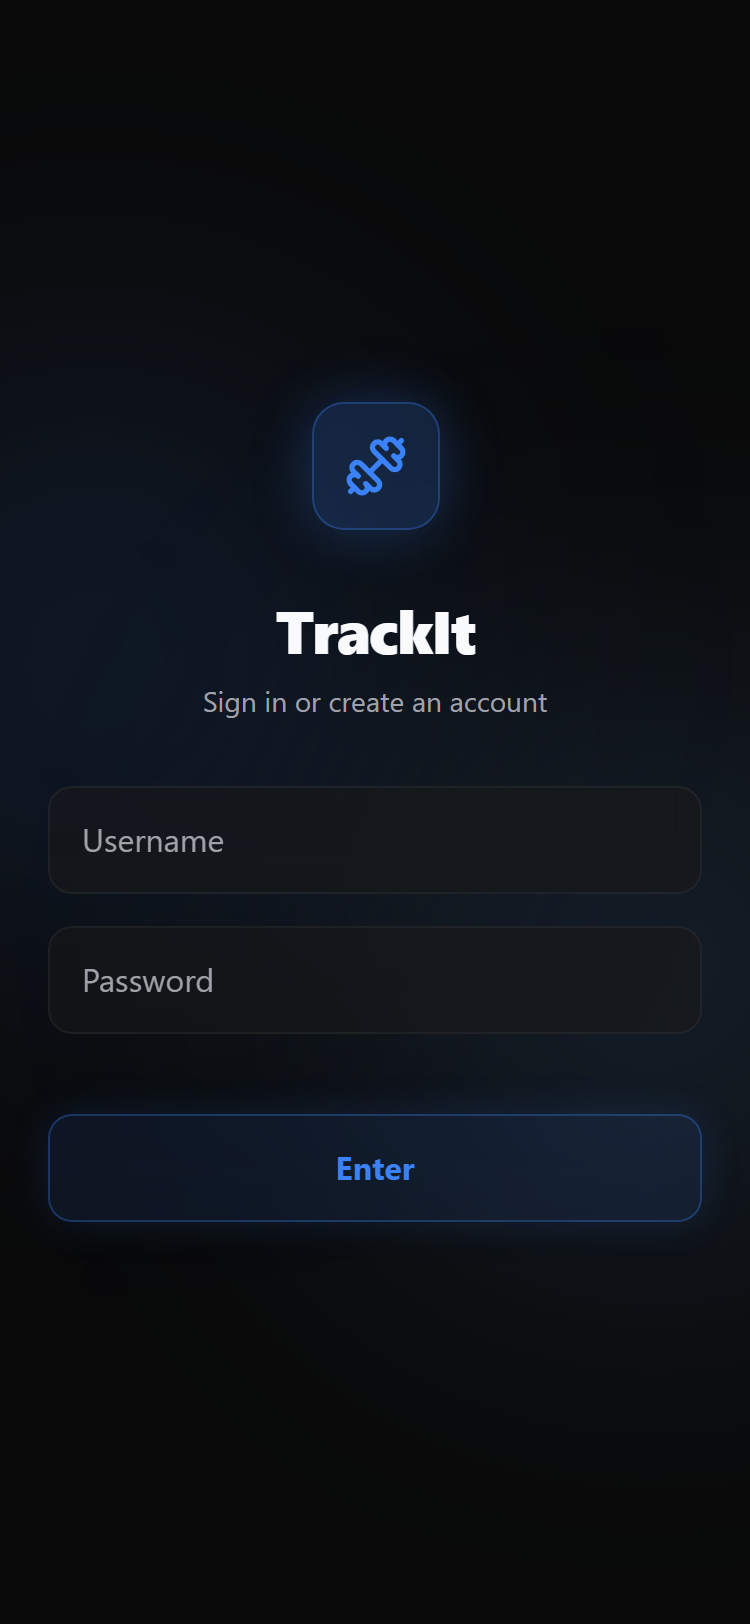
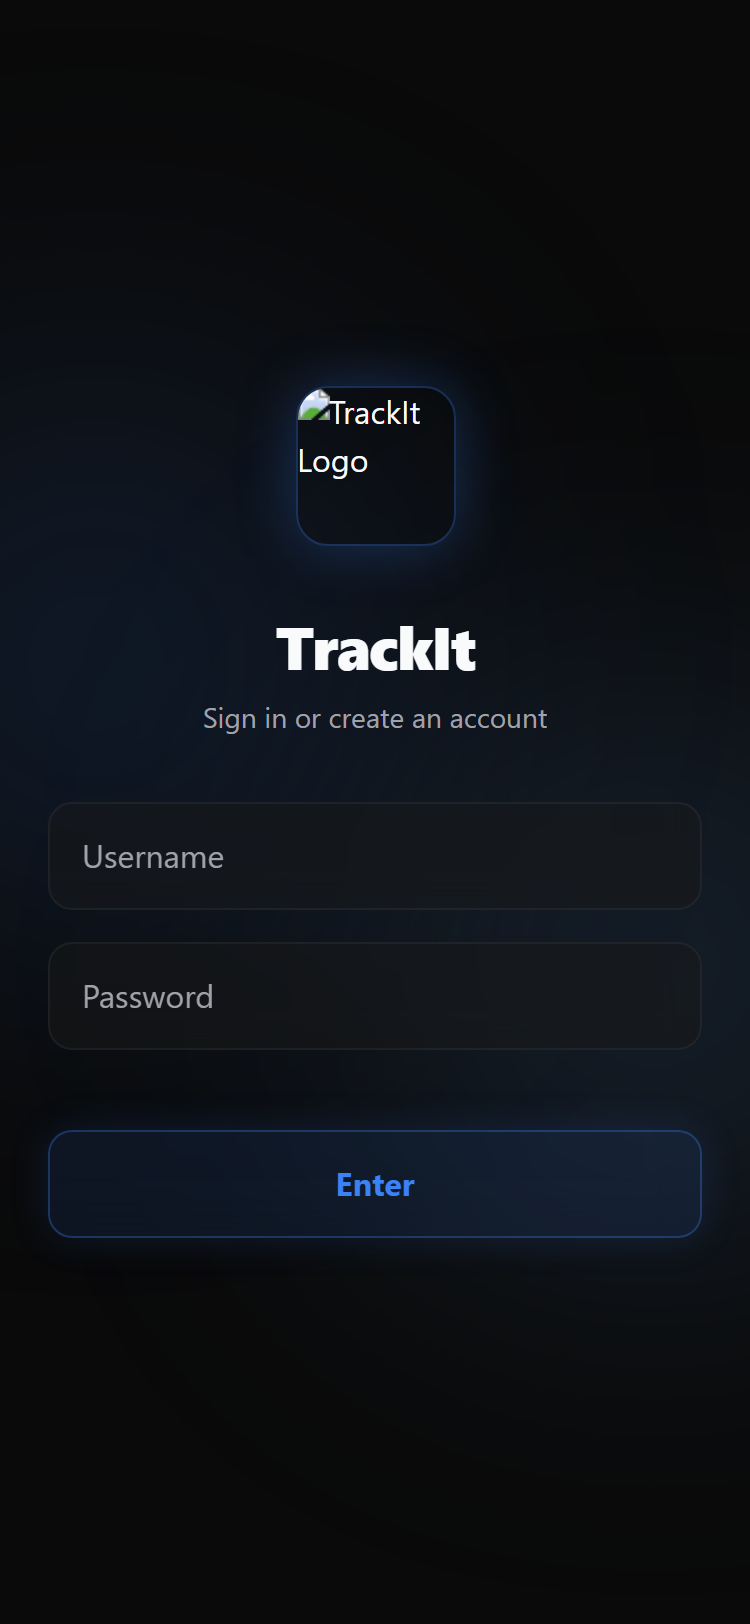
feat: implement Rest Day logging and visual indicators

diff --git a/frontend/src/components/Calendar/CalendarView.jsx b/frontend/src/components/Calendar/CalendarView.jsx
@@ -117,29 +117,33 @@ export default function CalendarView({ onDayClick, onBack }) {
               const dateKey = format(day, 'yyyy-MM-dd');
               const dayWorkouts = workoutsMap[dateKey] || [];
               const hasWorkout = dayWorkouts.length > 0;
+              const isRestOnly = hasWorkout && dayWorkouts.every(w => w.exercises && w.exercises.length === 0);
               const isCurrentMonth = isSameMonth(day, currentMonth);
               const isDayToday = isToday(day);
               const isFuture = isAfter(day, new Date()) && !isDayToday;
 
               return (
                 <div key={i} className="flex justify-center">
-                    <motion.button
-                      whileHover={hasWorkout ? { scale: 1.05 } : {}}
-                      whileTap={hasWorkout ? { scale: 0.95 } : {}}
-                      onClick={() => { if (hasWorkout) onDayClick(dateKey); }}
-                      disabled={!hasWorkout}
-                      className={`
-                        relative w-10 h-10 sm:w-12 sm:h-12 flex flex-col items-center justify-center rounded-full font-bold transition-all
-                        ${!isCurrentMonth ? 'opacity-0 pointer-events-none' : ''}
-                        ${isDayToday ? 'ring-2 ring-amber-500 ring-offset-2 ring-offset-surface text-amber-500' : ''}
-                        ${hasWorkout ? 'bg-emerald-500/15 text-emerald-400 border border-emerald-500/30 backdrop-blur-md shadow-[0_0_12px_rgba(16,185,129,0.15)] cursor-pointer' : 'cursor-default'}
-                        ${!hasWorkout && isDayToday ? 'bg-surface-light' : ''}
-                        ${!hasWorkout && !isFuture && !isDayToday && isCurrentMonth ? 'text-textMuted hover:bg-surface-light' : ''}
-                        ${isFuture ? 'text-textMuted/20' : ''}
-                      `}
-                    >
-                      <span className="text-sm sm:text-base z-10">{format(day, 'd')}</span>
-                    </motion.button>
+                    <div className="relative">
+                      <motion.button
+                        whileHover={hasWorkout ? { scale: 1.05 } : {}}
+                        whileTap={hasWorkout ? { scale: 0.95 } : {}}
+                        onClick={() => { if (hasWorkout) onDayClick(dateKey); }}
+                        disabled={!hasWorkout}
+                        className={`
+                          relative w-10 h-10 sm:w-12 sm:h-12 flex flex-col items-center justify-center rounded-full font-bold transition-all
+                          ${!isCurrentMonth ? 'opacity-0 pointer-events-none' : ''}
+                          ${isDayToday ? 'ring-2 ring-amber-500 ring-offset-2 ring-offset-surface text-amber-500' : ''}
+                          ${hasWorkout && !isRestOnly ? 'bg-emerald-500/15 text-emerald-400 border border-emerald-500/30 backdrop-blur-md shadow-[0_0_12px_rgba(16,185,129,0.15)] cursor-pointer' : ''}
+                          ${hasWorkout && isRestOnly ? 'bg-primary/15 text-primary border border-primary/30 backdrop-blur-md shadow-[0_0_12px_rgba(59,130,246,0.15)] cursor-pointer' : ''}
+                          ${!hasWorkout && isDayToday ? 'bg-surface-light' : ''}
+                          ${!hasWorkout && !isFuture && !isDayToday && isCurrentMonth ? 'text-textMuted hover:bg-surface-light' : ''}
+                          ${isFuture ? 'text-textMuted/20' : ''}
+                        `}
+                      >
+                        <span className="text-sm sm:text-base z-10">{format(day, 'd')}</span>
+                      </motion.button>
+                    </div>
                   </div>
               );
             })}

diff --git a/frontend/src/components/Calendar/WorkoutDetailView.jsx b/frontend/src/components/Calendar/WorkoutDetailView.jsx
@@ -103,7 +103,7 @@ export default function WorkoutDetailView({ date, onBack }) {
           >
             <div className="bg-surface-light p-4 border-b border-border flex justify-between items-center">
               <h3 className="font-bold text-text">
-                {workout.routineName || `Workout ${wIdx + 1}`}
+                {workout.exercises.length === 0 ? 'Rest Day' : (workout.routineName || `Workout ${wIdx + 1}`)}
               </h3>
               <span className="text-xs font-bold text-textMuted uppercase tracking-wider">
                 {workout.startTime ? format(new Date(workout.startTime), 'h:mm a') : 'Completed'}
@@ -111,7 +111,16 @@ export default function WorkoutDetailView({ date, onBack }) {
             </div>
             
             <div className="p-4 flex flex-col gap-6">
-              {workout.exercises.map((exercise, eIdx) => (
+              {workout.exercises.length === 0 ? (
+                <div className="flex flex-col items-center justify-center py-6 px-4 bg-emerald-500/5 rounded-2xl border border-emerald-500/10 text-center gap-3">
+                  <div className="w-16 h-16 bg-emerald-500/10 rounded-full flex items-center justify-center mb-1">
+                    <span className="text-3xl">🛋</span>
+                  </div>
+                  <h4 className="text-emerald-400 font-bold text-lg">Active Recovery Logged</h4>
+                  <p className="text-sm text-textMuted max-w-[250px]">You took a well-deserved rest day to let your muscles recover and grow.</p>
+                </div>
+              ) : (
+                workout.exercises.map((exercise, eIdx) => (
                 <div key={exercise.id || eIdx} className="flex flex-col gap-3">
                   <div className="flex items-center gap-3">
                     <ExerciseImage src={exercise.gifUrl} alt={exercise.name} />
@@ -149,7 +158,7 @@ export default function WorkoutDetailView({ date, onBack }) {
                     </table>
                   </div>
                 </div>
-              ))}
+              )))}
             </div>
           </motion.div>
         ))}

diff --git a/frontend/src/components/Dashboard/ConsistencyMap.jsx b/frontend/src/components/Dashboard/ConsistencyMap.jsx
@@ -21,11 +21,12 @@ const generateMonthGrid = (date, countsMap) => {
     const adjustedDay = dayOfWeek === 0 ? 6 : dayOfWeek - 1;
 
     const timestamp = startOfDay(day).getTime();
-    const count = countsMap.get(timestamp) || 0;
+    const data = countsMap.get(timestamp) || { count: 0, hasRestDay: false, hasRealWorkout: false };
 
     currentWeek[adjustedDay] = {
       date: day,
-      hasWorkout: count > 0,
+      hasWorkout: data.count > 0,
+      isRestOnly: data.hasRestDay && !data.hasRealWorkout,
       isFuture: isAfter(day, today)
     };
 
@@ -52,7 +53,12 @@ export default function ConsistencyMap({ onMapClick }) {
     const map = new Map();
     workoutHistory.forEach(w => {
       const d = startOfDay(parseISO(w.timestamp)).getTime();
-      map.set(d, (map.get(d) || 0) + 1);
+      const existing = map.get(d) || { count: 0, hasRestDay: false, hasRealWorkout: false };
+      const isRest = w.exercises && w.exercises.length === 0;
+      if (isRest) existing.hasRestDay = true;
+      else existing.hasRealWorkout = true;
+      existing.count += 1;
+      map.set(d, existing);
     });
     return map;
   }, [workoutHistory]);
@@ -211,6 +217,7 @@ export default function ConsistencyMap({ onMapClick }) {
                         className={`w-4 h-4 rounded-[4px] transition-all duration-300 ${
                           !day ? 'bg-transparent' : 
                           day.isFuture ? 'bg-surface-light/30' :
+                          day.isRestOnly ? 'bg-emerald-500/80 shadow-sm shadow-emerald-500/20' :
                           day.hasWorkout ? 'bg-primary shadow-sm shadow-primary/40' : 'bg-surface-light hover:bg-surface-light/80'
                         }`}
                       />

diff --git a/frontend/src/components/WorkoutFlow/ActiveWorkout.jsx b/frontend/src/components/WorkoutFlow/ActiveWorkout.jsx
@@ -95,6 +95,19 @@ export default function ActiveWorkout() {
         <span className="font-mono text-primary font-bold">{formatTime(workoutDuration)}</span>
       </div>
 
+      {activeWorkout.exercises.length === 0 && (
+        <div className="mx-2 panel p-4 bg-emerald-500/10 border-emerald-500/20 text-center flex flex-col items-center justify-center gap-2 rounded-2xl shadow-lg relative overflow-hidden">
+          <div className="absolute top-0 right-0 w-24 h-24 bg-emerald-500/20 rounded-full blur-[40px] pointer-events-none" />
+          <div className="w-12 h-12 bg-emerald-500/20 rounded-full flex items-center justify-center mb-1 shadow-[0_0_15px_rgba(16,185,129,0.3)]">
+            <span className="text-2xl">🛋</span>
+          </div>
+          <h3 className="text-emerald-400 font-black text-lg tracking-tight">Rest Day Logging</h3>
+          <p className="text-emerald-500/80 font-bold text-sm leading-snug max-w-[200px]">
+            Tap "Log Rest Day" above to record a recovery day.
+          </p>
+        </div>
+      )}
+
       {/* Exercises */}
       {activeWorkout.exercises.map((ex, idx) => {
         const prevPerformance = getPreviousPerformance(ex.id, workoutHistory, unit);

diff --git a/frontend/src/components/Routines/RoutineBuilder.jsx b/frontend/src/components/Routines/RoutineBuilder.jsx
@@ -139,7 +139,7 @@ export default function RoutineBuilder({ initialRoutine, onCancel, onSaveSuccess
 
   const handleSave = async () => {
     if (!name.trim()) return alert("Please enter a routine name.");
-    if (exercises.length === 0) return alert("Please add at least one exercise.");
+    // Allowed empty for rest days
 
     const routineData = { name, exercises };
     
@@ -186,6 +186,13 @@ export default function RoutineBuilder({ initialRoutine, onCancel, onSaveSuccess
       </div>
 
       <div className="flex flex-col gap-3">
+        {exercises.length === 0 && (
+          <div className="panel p-4 bg-emerald-500/10 border-emerald-500/20 text-center">
+            <p className="text-emerald-400 font-bold text-sm flex items-center justify-center gap-2">
+              <span className="text-lg">🛋</span> Saving with 0 exercises will create a Rest Day routine
+            </p>
+          </div>
+        )}
         {exercises.map((ex, exIdx) => {
           const isExpanded = expandedExerciseIndex === exIdx;
           return (

diff --git a/frontend/src/AppContent.jsx b/frontend/src/AppContent.jsx
@@ -137,7 +137,7 @@ export default function AppContent() {
                   className="bg-primary/10 border border-primary/30 hover:bg-primary/20 hover:border-primary/50 backdrop-blur-md shadow-[0_0_12px_rgba(59,130,246,0.15)] text-primary px-3 sm:px-5 py-1.5 rounded-md font-bold text-xs sm:text-sm transition-all active:scale-95 disabled:opacity-50 flex items-center gap-1 sm:gap-2"
                 >
                   {isFinishing ? <span className="animate-spin h-3 w-3 sm:h-4 sm:w-4 border-2 border-primary border-t-transparent rounded-full" /> : null}
-                  {isFinishing ? 'Finishing...' : 'Finish'}
+                  {isFinishing ? 'Finishing...' : (activeWorkout.exercises.length === 0 ? 'Log Rest Day' : 'Finish')}
                 </button>
             </div>
           )}

diff --git a/frontend/src/components/Dashboard/Dashboard.jsx b/frontend/src/components/Dashboard/Dashboard.jsx
@@ -265,7 +265,7 @@ export default function Dashboard({ onMapClick }) {
         <StatCard
           icon={Activity}
           title="Total Workouts"
-          value={workoutHistory.length}
+          value={workoutHistory.filter(w => w.exercises && w.exercises.length > 0).length}
           colorClass={{ bg: 'bg-primary/5', iconBg: 'bg-primary/20', text: 'text-primary' }}
           description="The total number of workout sessions you've logged."
           isActive={activeInfoCard === "Total Workouts"}

diff --git a/frontend/src/context/WorkoutContext.jsx b/frontend/src/context/WorkoutContext.jsx
@@ -367,13 +367,6 @@ export function WorkoutProvider({ children }) {
   const finishWorkout = async () => { if (navigator.vibrate) navigator.vibrate([100, 50, 100, 50, 200]);
     try {
       await cancelPushNotification();
-      
-      if (activeWorkout.exercises.length === 0) {
-        setActiveWorkout(null);
-        setWorkoutDuration(0);
-        setRestEndTime(null);
-        return;
-      }
 
       const payload = {
         ...activeWorkout,
